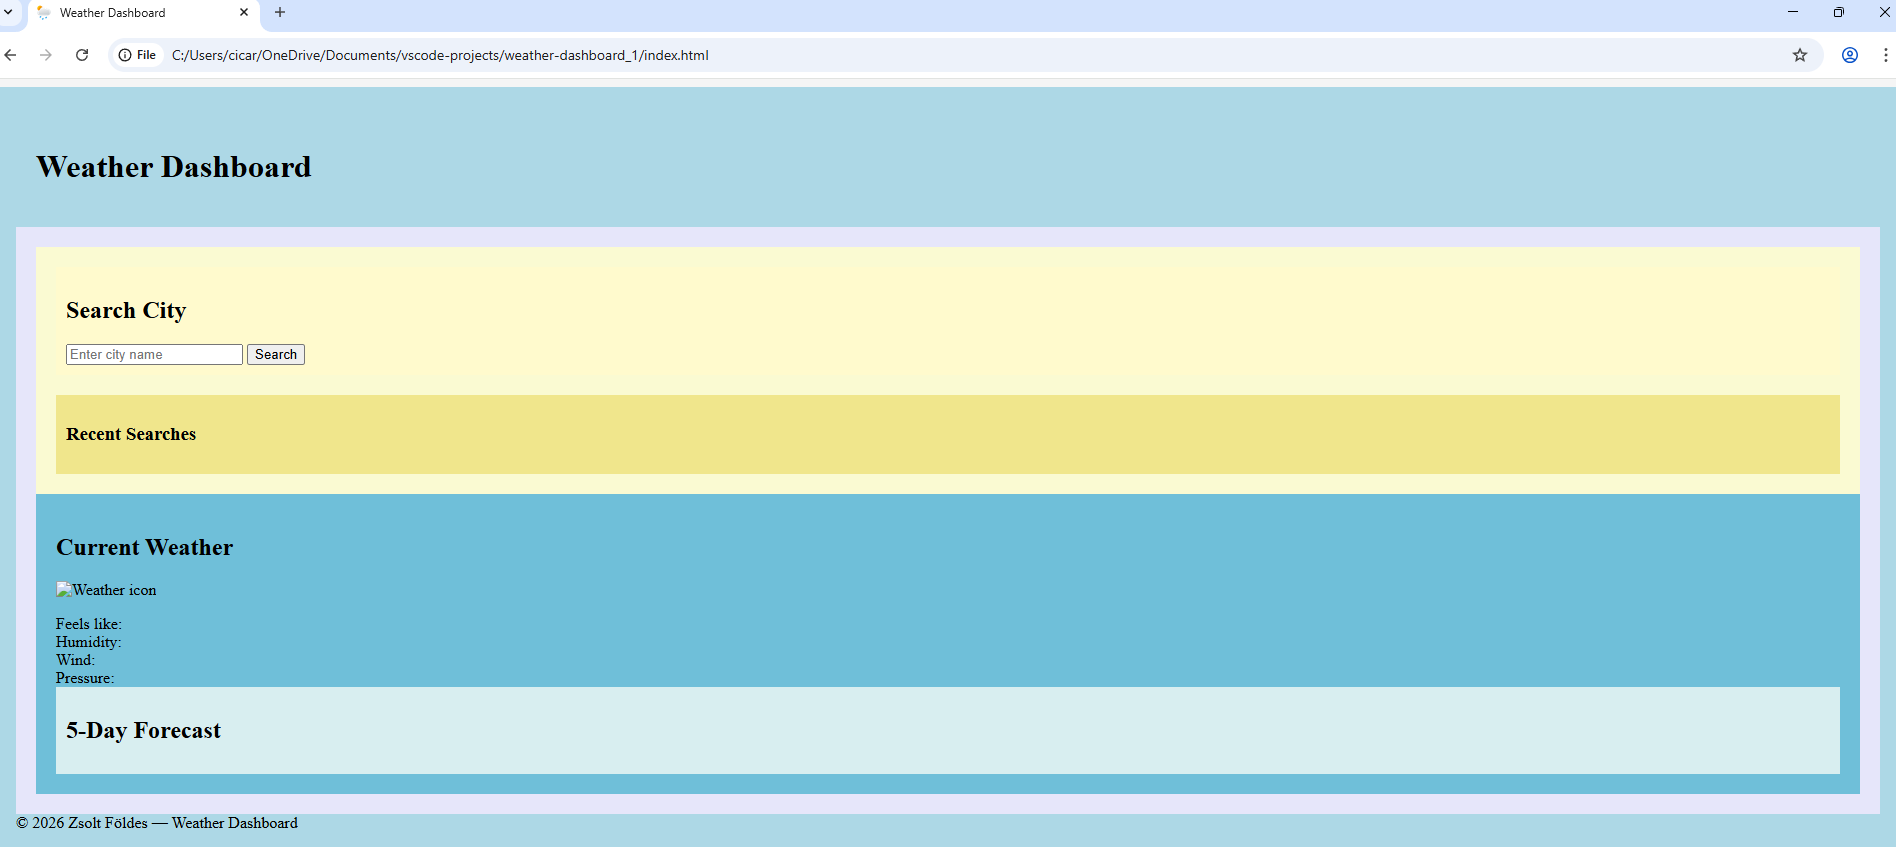
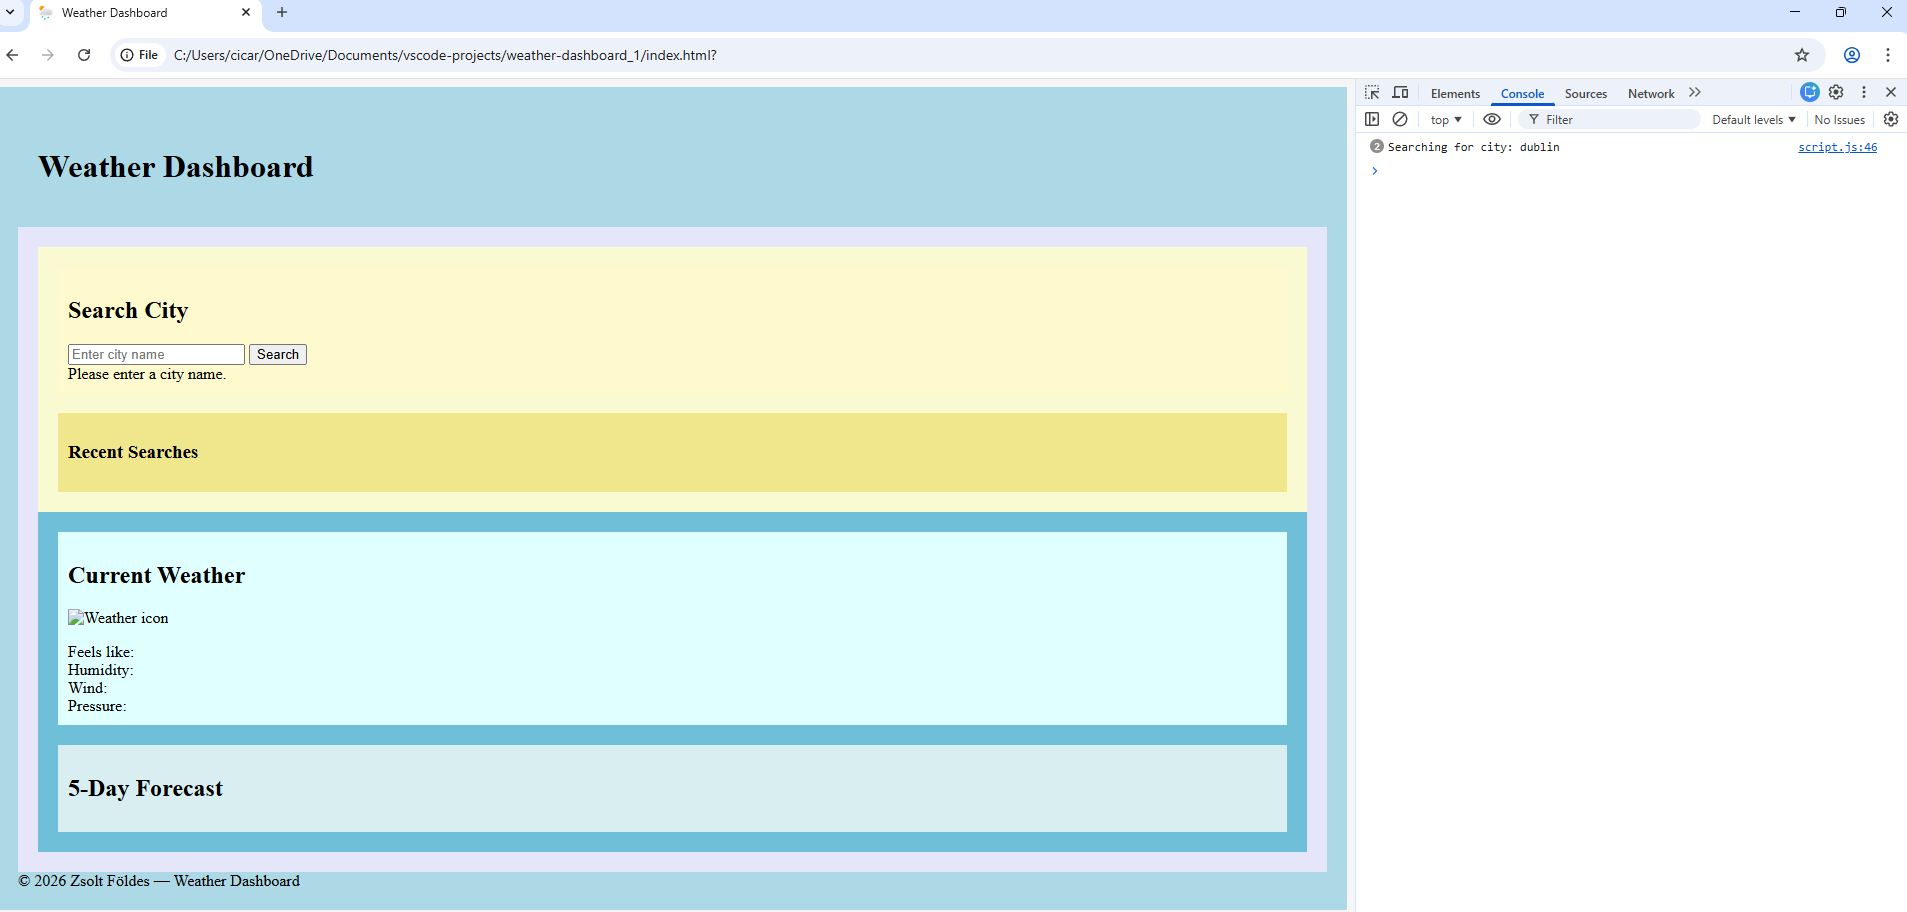
Add fetchWeather function with API URL build and basic fetch request

diff --git a/assets/js/script.js b/assets/js/script.js
@@ -45,13 +45,36 @@ form.addEventListener("submit", function (e) {
 
   console.log("Searching for city:", city); // Test output
 
-
+  fetchWeather(city);
   input.value = ""; // Clear input
 });
 
 // Fetch current weather data for the given city
-//function fetchWeather(city) {
-  // Build API URL with city name and API key
+function fetchWeather(city) {
+
+  // Log the city value for debugging
+  console.log("fetchWeather called with:", city);
+
+  // Build full API request URL with city, key, and metric units
+  const url = `${currentWeatherURL}?q=${city}&appid=${apiKey}&units=metric`;
+
+  // Log URL to verify correct request format
+  console.log("STEP 1: about to call fetch with URL:", url);
+
+  // Send HTTP request to OpenWeather API
+  fetch(url)
+    .then((res) => {
+      // Log raw response object for debugging
+      console.log("STEP 2: raw response:", res);
+
+      // Convert response body to JSON
+      return res.json();
+    })
+    .then((data) => {
+      // Log parsed JSON for debugging
+      console.log("STEP 3: parsed JSON data:", data);
+    });
+}
 
 
   
